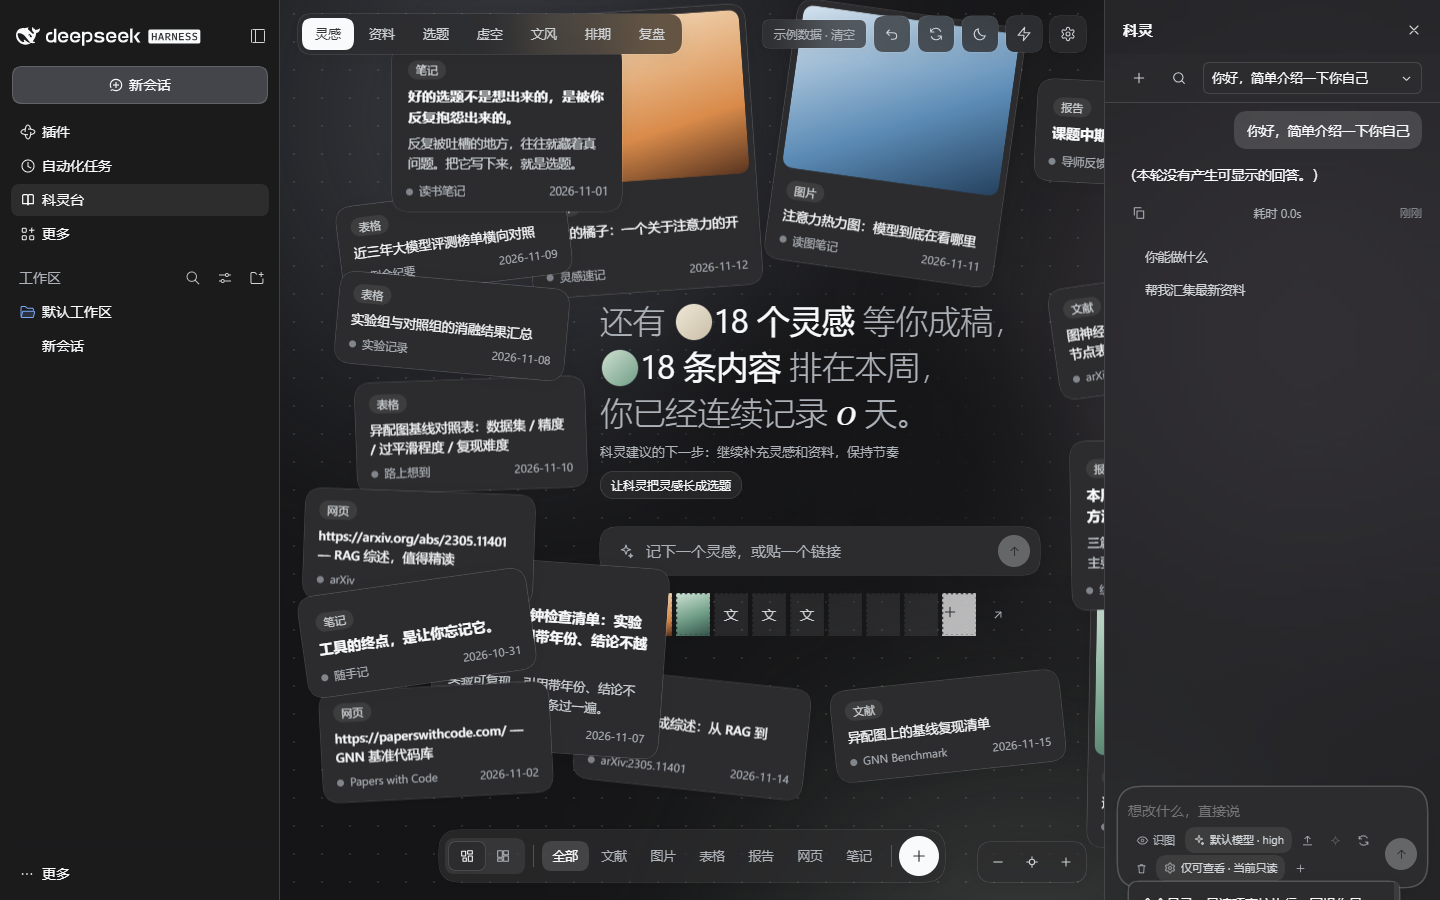
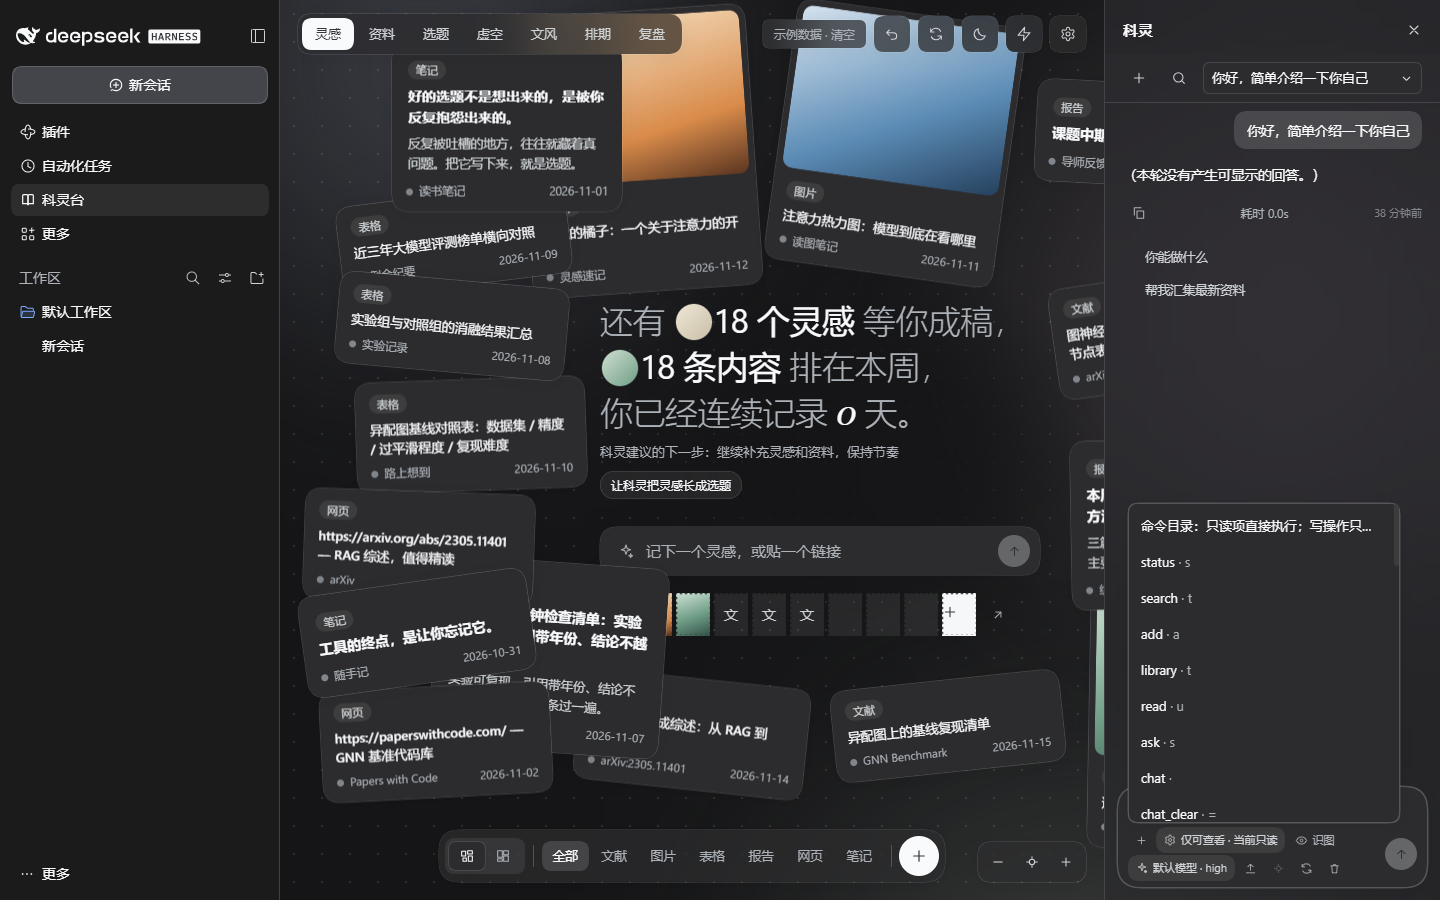
fix(ui): flip + command menu upward and align tool row left (DSH native)

diff --git a/lib/client.js b/lib/client.js
@@ -3099,6 +3099,11 @@ window.__ModuleLoader__.load({
             onKeyDown: e => { if (e.key === 'Enter' && !e.shiftKey && !e.nativeEvent.isComposing) { e.preventDefault(); send(input) } } }),
           h('div', { className: 'md-composer-bar', key: 'bar' }, [
             h('div', { className: 'md-composer-tools', key: 'tools', style: { position: 'relative' } }, [
+              // ＋号/权限置最左，对齐 DSH 原生会话。
+              // +号命令目录：与顶栏「新建对话」的 F plus 以 key/label/class 区分；目录数据来自 status.commands。
+              F({ key: 'cmdcatalog', icon: 'plus', size: 13, className: 'md-ctool', label: '命令目录', onClick: openCommandMenu }),
+              // 权限设置入口：盾牌 indicator，复用 md-ctool 胶囊与已有 gear 图标；只展示「当前只读」，点击进权限页，不提权。
+              h('button', { type: 'button', key: 'permind', className: 'md-ctool md-ctool-model', title: '权限设置：' + (PERM_LABELS[permMode] || '自定义') + ' · 当前只读（选更高档只是记下偏好，不会立刻提权；实际按只读运行）', 'aria-label': '当前权限：' + (PERM_LABELS[permMode] || '自定义') + ' · 当前只读，点开权限设置', onClick: () => { setSettingsPage('perm'); setSettingsPanelOpen(v => !v) } }, [I({ name: 'gear', size: 12 }), h('span', { key: 't' }, (PERM_LABELS[permMode] || '自定义') + ' · 当前只读')]),
               h('button', { type: 'button', key: 'vision', className: 'md-ctool md-ctool-vision' + (images.length ? ' is-on' : ''), title: images.length ? '让科灵看这张图，再问它' : '选图片给科灵看（识图需在科灵设置里选支持图片的模型）', 'aria-label': images.length ? '识图，已选 ' + images.length + ' 张' : '选择图片让科灵看', onClick: () => visionInputRef.current && visionInputRef.current.click() }, [I({ name: 'eye', size: 13 }), images.length ? '识图·' + images.length + '张' : '识图']),
               h('div', { className: 'md-settings-anchor', key: 'setwrap' }, [
                 h('button', { type: 'button', key: 'model', className: 'md-ctool md-ctool-model md-settings-trigger', title: '科灵设置', onClick: () => { setSettingsPage('root'); setSettingsPanelOpen(v => !v) } }, [I({ name: 'spark', size: 12 }), modelLabel, ' · ' + (modelEffort || 'high')]),
@@ -3108,11 +3113,7 @@ window.__ModuleLoader__.load({
               h('button', { type: 'button', key: 'askcollab', className: 'md-ctool', title: '交给科灵 · 到虚空验证（靶心）', disabled: !input.trim(), onClick: function() { openCollabWithGoal(input) } }, I({ name: 'target', size: 13 })),
               msgs.length ? h('button', { type: 'button', key: 'regen', className: 'md-ctool', title: '重新生成上一回答', disabled: busy !== '', onClick: regenLast }, I({ name: 'refresh', size: 13 })) : null,
               msgs.length ? h('button', { type: 'button', key: 'clear', className: 'md-ctool', title: '清空当前对话', disabled: busy !== '', onClick: clearChat }, I({ name: 'trash', size: 13 })) : null,
-              // 权限设置入口：盾牌 indicator，复用 md-ctool 胶囊与已有 gear 图标；只展示「当前只读」，点击进权限页，不提权。
-              h('button', { type: 'button', key: 'permind', className: 'md-ctool md-ctool-model', title: '权限设置：' + (PERM_LABELS[permMode] || '自定义') + ' · 当前只读（选更高档只是记下偏好，不会立刻提权；实际按只读运行）', 'aria-label': '当前权限：' + (PERM_LABELS[permMode] || '自定义') + ' · 当前只读，点开权限设置', onClick: () => { setSettingsPage('perm'); setSettingsPanelOpen(v => !v) } }, [I({ name: 'gear', size: 12 }), h('span', { key: 't' }, (PERM_LABELS[permMode] || '自定义') + ' · 当前只读')]),
-              // +号命令目录：与顶栏「新建对话」的 F plus 以 key/label/class 区分；目录数据来自 status.commands。
-              F({ key: 'cmdcatalog', icon: 'plus', size: 13, className: 'md-ctool', label: '命令目录', onClick: openCommandMenu }),
-              cmdMenuOpen ? h('div', { className: 'md-chatmenu md-cmdmenu', key: 'cmdmenu', style: { left: '0', right: 'auto', width: '272px', maxHeight: '320px' } }, [
+              cmdMenuOpen ? h('div', { className: 'md-chatmenu md-cmdmenu', key: 'cmdmenu', style: { left: '0', right: 'auto', width: '272px', top: 'auto', bottom: 'calc(100% + 4px)', maxHeight: 'min(320px, calc(100vh - 120px))' } }, [
                 h('div', { className: 'md-chatmenu-row', key: 'hd' }, [
                   h('span', { className: 'md-chatmenu-name', key: 't' }, '命令目录：只读项直接执行；写操作只填提示，不直接执行')
                 ]),
